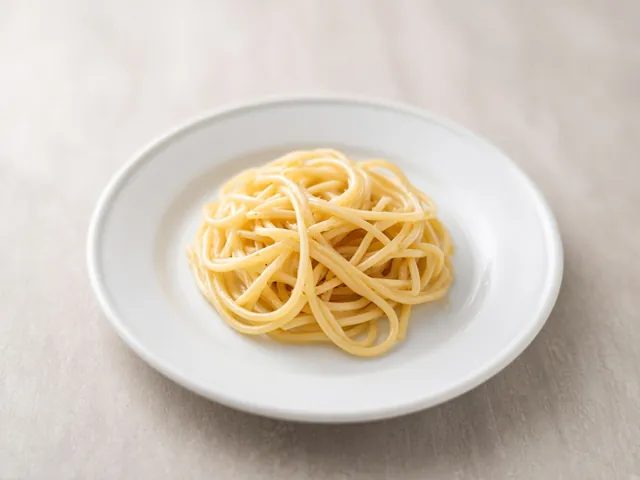
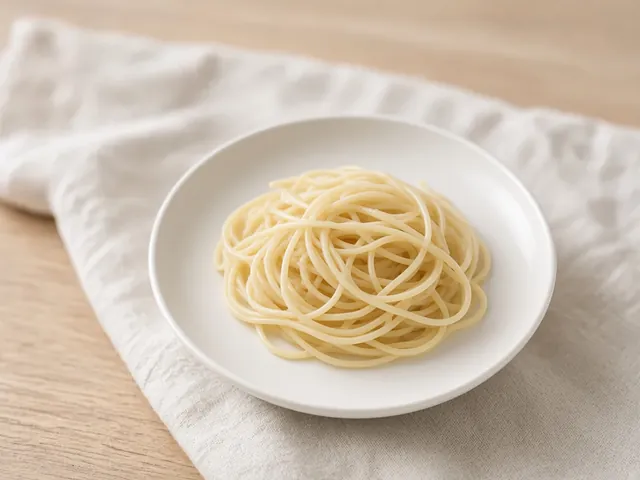
v1.2.1 preview: Let's play start button and plain pasta photo
Start button is "Let's play! 🍌". Pasta (plain) photo shows drained pasta
with no sauce. Service worker cache is k-swipe-preview-v1.2.1.
Not the live K Swipe site.

diff --git a/index.html b/index.html
@@ -342,7 +342,7 @@
         <div class="scrollCue" id="startScrollCue" hidden>More ↓</div>
       </div>
       <div class="btnCol">
-        <button class="bigBtn" id="continueBtn">Start Level 1</button>
+        <button class="bigBtn" id="continueBtn">Let's play! 🍌</button>
         <div class="btnRow startActions">
           <button class="bigBtn secondary" id="dailyBtn">📅 Daily Challenge</button>
           <button class="bigBtn secondary" id="statsBtn">📊 Stats</button>
@@ -758,7 +758,7 @@ function updateStartScrollCue(){
 function refreshStart(){
   const u = Math.min(save.unlocked, MAX_LEVEL);
   applyLevelTheme(u);
-  $("continueBtn").textContent = u > 1 ? `Continue: Level ${u} · ${LEVELS[u-1].theme}` : "Start Level 1";
+  $("continueBtn").textContent = u > 1 ? `Continue: Level ${u} · ${LEVELS[u-1].theme}` : "Let's play! 🍌";
   $("newJourneyBtn").hidden = u <= 1;
   const done = save.daily.last === todayStr();
   $("dailyBtn").textContent = done ? `📅 Daily done today (${save.daily.lastScore}/10) · 🔥 ${save.daily.streak}`

diff --git a/sw.js b/sw.js
@@ -3,7 +3,7 @@
    Fetch strategy: stale-while-revalidate — serve the cached copy immediately,
    then update the cache from the network for the next visit. If the network
    is down, the cached copy (or the precached index.html for navigations) is used. */
-const CACHE_VERSION = "k-swipe-preview-v1.2.0";
+const CACHE_VERSION = "k-swipe-preview-v1.2.1";
 const ASSETS = [
   "./",
   "./index.html",

diff --git a/CHANGES_1.2.md b/CHANGES_1.2.md
@@ -8,7 +8,9 @@ For Dr D's review on the `pics` branch. This branch is not merged to main, and t
 - 123 original AI-generated photographs are bundled locally as WebP (each 40 KB or less) so the app still works offline.
 - Images are lazy-loaded, have alt text, and fall back to the existing emoji if a file is missing.
 - Photos shrink after you answer so the verdict, plate list, and feedback still fit, including on an iPhone SE and in iPad landscape.
-- The service worker cache is now `k-swipe-v1.2.0` and precaches every image plus `CREDITS.md`.
+- The service worker cache on this preview is `k-swipe-preview-v1.2.1`.
+- The main start button (new players, Level 1) now says "Let's play! 🍌" instead of "Start Level 1". After Level 1 is unlocked, it still says "Continue: Level …".
+- The Pasta (plain) photograph was regenerated so it shows a modest half-cup of plain drained pasta with no sauce.
 
 ## What did not change
 
